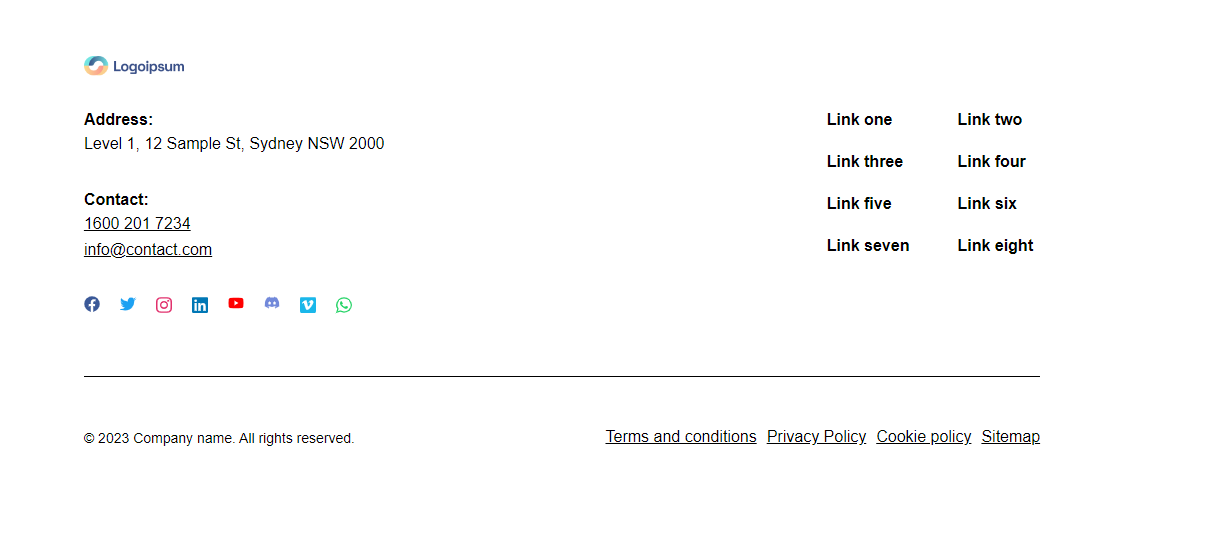
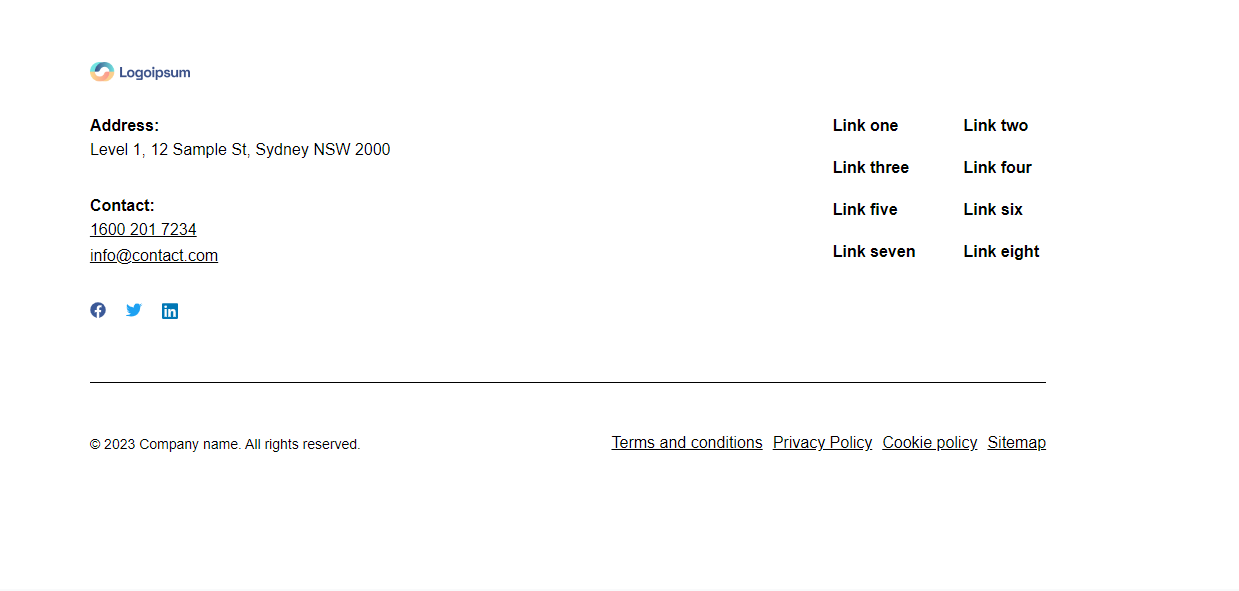
Simple component: add 2 footers

diff --git a/ui-builder/src/features/components/footer-simple-with-input-3.tsx b/ui-builder/src/features/components/footer-simple-with-input-3.tsx
@@ -1,6 +1,6 @@
 import produce from 'immer'
 import { ReactNode } from 'react'
-import imageUrl from '../../assets/components/footer-simple-with-input-2.png'
+import imageUrl from '../../assets/components/footer-simple-with-input-3.png'
 import { deserializeElement } from '../../utils/deserialize'
 import { box, form, frame, img, input, link, submit, txt } from '../elements/constructor'
 import { BoxElement } from '../elements/extensions/box'
@@ -20,19 +20,19 @@ import { ComponentWrapper } from './helpers/component-wrapper'
 import { DndTabs } from './helpers/dnd-tabs'
 import { OptionsWrapper } from './helpers/options-wrapper'
 
-export class FooterSimpleWithInput2 extends Component {
-	name = 'Simple footer with input - 2 '
+export class FooterSimpleWithInput3 extends Component {
+	name = 'Simple footer with input - 3 '
 	image = imageUrl
 	defaultData = deserializeElement(defaultData)
 
 	renderOptions(options: ElementOptions): ReactNode {
-		return <FooterSimpleWithInput2Options options={options} />
+		return <FooterSimpleWithInput3Options options={options} />
 	}
 }
 
 // =============  renderOptions =============
 
-function FooterSimpleWithInput2Options({ options }: { options: ElementOptions }) {
+function FooterSimpleWithInput3Options({ options }: { options: ElementOptions }) {
 	const component = useSelectedElement<BoxElement>()!
 	const logo = component.find<ImageElement>(tagIds.logo)!
 	const columnOne = component.find(tagIds.columnOne) as BoxElement
@@ -47,7 +47,7 @@ function FooterSimpleWithInput2Options({ options }: { options: ElementOptions })
 	const button = component.find(tagIds.button) as ButtonElement
 	const socials = component.find(tagIds.socials) as BoxElement
 	return (
-		<ComponentWrapper name="Simple footer with input - 2">
+		<ComponentWrapper name="Simple footer with input - 3">
 			<ImageStyler element={logo} />
 			<DividerCollapsible closed title="Input">
 				<TextStyler label="Input Label " element={inputLabel} />
@@ -337,11 +337,11 @@ const topFooterRight = box([
 const topFooter = box([topFooterLeft, topFooterRight])
 	.css({
 		display: 'grid',
-		paddingBottom: '4rem',
+		padding: '3rem',
 		gridTemplateColumns: ' 1fr 1fr',
 		columnGap: '4rem',
-		borderBottomWidth: '1px',
-		borderBottomStyle: 'solid',
+		borderWidth: '1px',
+		borderStyle: 'solid',
 		borderColor: 'black',
 	})
 	.cssTablet({

diff --git a/ui-builder/src/features/components/footer-simple-links-on-right-2.tsx b/ui-builder/src/features/components/footer-simple-links-on-right-2.tsx
@@ -11,12 +11,12 @@ import { useSelectedElement } from '../selection/use-selected-component'
 import { ImageStyler } from '../simple/stylers/image-styler'
 import { LinkStyler } from '../simple/stylers/link-styler'
 import { TextStyler } from '../simple/stylers/text-styler'
-import { Socials } from './basic-components/professional-socials'
 import { Component, ElementOptions } from './component'
 import { DividerCollapsible } from './helpers'
 import { ComponentWrapper } from './helpers/component-wrapper'
 import { DndTabs } from './helpers/dnd-tabs'
 import { OptionsWrapper } from './helpers/options-wrapper'
+import ProfessionalSocials from './basic-components/professional-socials'
 
 export class FooterSimpleWithLinksOnRight2 extends Component {
 	name = 'Simple footer with links on right - 2 '
@@ -63,7 +63,11 @@ function FooterSimpleWithLinksOnRight2Options({ options }: { options: ElementOpt
 					insertElement={() => createLink('New link')}
 				/>
 			</DividerCollapsible>
-			{Socials.getOptions({ set: options.set, root: socials, rootIsContainer: true })}
+			{ProfessionalSocials.getOptions({
+				set: options.set,
+				root: socials,
+				rootIsContainer: true,
+			})}
 
 			<DividerCollapsible closed title="Bottom links">
 				<TextStyler label="Bottom text" element={bottomText} />
@@ -200,7 +204,7 @@ const topFooterLeft = box([
 			alignItems: 'start',
 		})
 		.cssMobile({}),
-	produce(Socials.getComponent(), (draft) => {
+	produce(ProfessionalSocials.getComponent(), (draft) => {
 		draft.style.desktop!.default!.width = 'auto'
 		draft.style.desktop!.default!.marginTop = '2rem'
 		draft.style.desktop!.default!.gap = '20px'

diff --git a/ui-builder/src/features/components/footer-simple-links-on-right.tsx b/ui-builder/src/features/components/footer-simple-links-on-right.tsx
@@ -11,7 +11,7 @@ import { useSelectedElement } from '../selection/use-selected-component'
 import { ImageStyler } from '../simple/stylers/image-styler'
 import { LinkStyler } from '../simple/stylers/link-styler'
 import { TextStyler } from '../simple/stylers/text-styler'
-import { Socials } from './basic-components/professional-socials'
+import ProfessionalSocials from './basic-components/professional-socials'
 import { Component, ElementOptions } from './component'
 import { DividerCollapsible } from './helpers'
 import { ComponentWrapper } from './helpers/component-wrapper'
@@ -63,7 +63,11 @@ function FooterSimpleWithLinksOnRightOptions({ options }: { options: ElementOpti
 					insertElement={() => createLink('New link')}
 				/>
 			</DividerCollapsible>
-			{Socials.getOptions({ set: options.set, root: socials, rootIsContainer: true })}
+			{ProfessionalSocials.getOptions({
+				set: options.set,
+				root: socials,
+				rootIsContainer: true,
+			})}
 
 			<DividerCollapsible closed title="Bottom links">
 				<TextStyler label="Bottom text" element={bottomText} />
@@ -200,7 +204,7 @@ const topFooterLeft = box([
 			alignItems: 'start',
 		})
 		.cssMobile({}),
-	produce(Socials.getComponent(), (draft) => {
+	produce(ProfessionalSocials.getComponent(), (draft) => {
 		draft.style.desktop!.default!.width = 'auto'
 		draft.style.desktop!.default!.marginTop = '2rem'
 		draft.style.desktop!.default!.gap = '20px'

diff --git a/ui-builder/src/features/components/index.tsx b/ui-builder/src/features/components/index.tsx
@@ -135,6 +135,8 @@ import { TestimonialSimple } from './testimonial-simple'
 import { TestimonialSlider } from './testimonial-slider'
 import { TestimonialSlider2 } from './testimonial-slider-2'
 import { NavbarWithDropDownCtaCenterLogo } from './navbar-with-dropdown-cta-center-logo'
+import { FooterSimpleWithInput2 } from './footer-simple-with-input-2'
+import { FooterSimpleWithInput3 } from './footer-simple-with-input-3'
 
 export const COMPONENTS: Components = [
 	{
@@ -318,7 +320,8 @@ export const COMPONENTS: Components = [
 			FooterSimpleCentered,
 			FooterSimpleWithoutIcon,
 			FooterSimpleWithInput,
-			// FooterSimpleWithInput2,
+			FooterSimpleWithInput2,
+			FooterSimpleWithInput3,
 			FooterSimpleWithLinksOnRight,
 			FooterSimpleWithLinksOnRight2,
 		],
